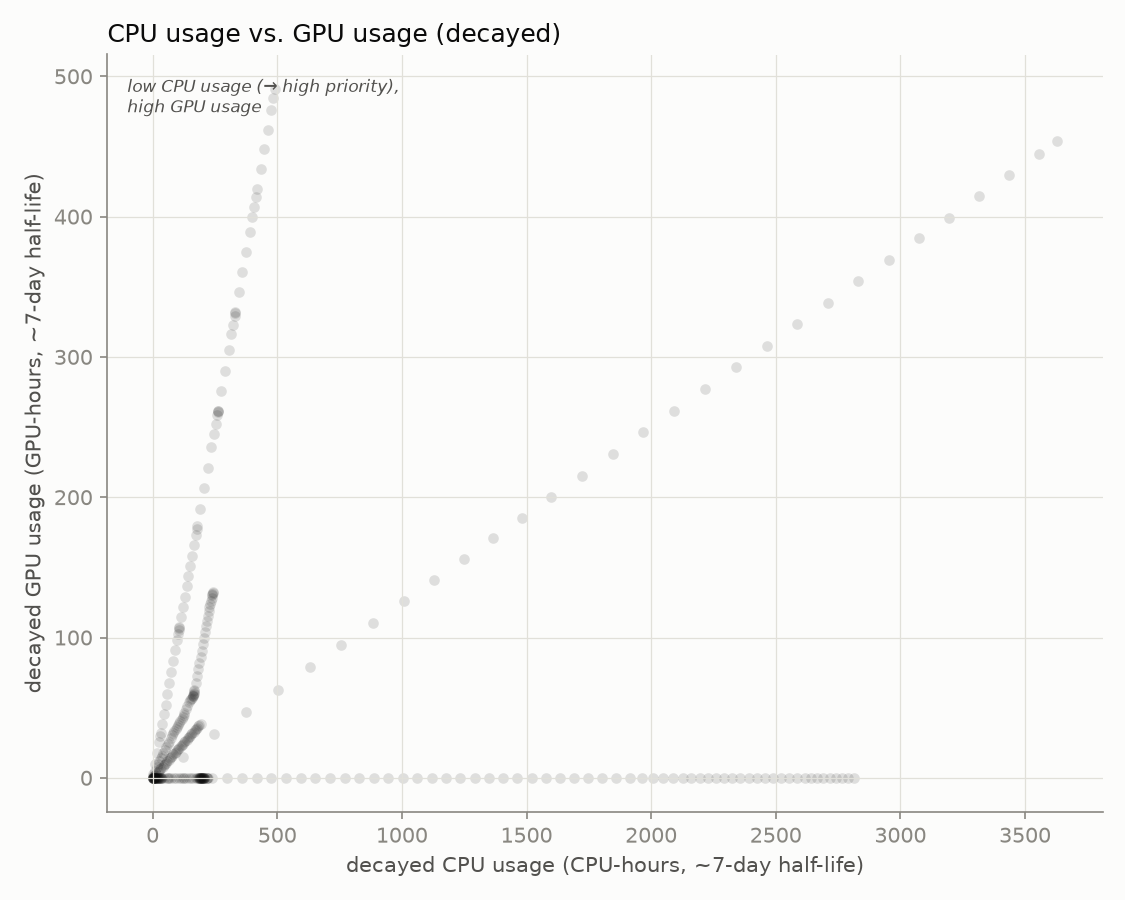
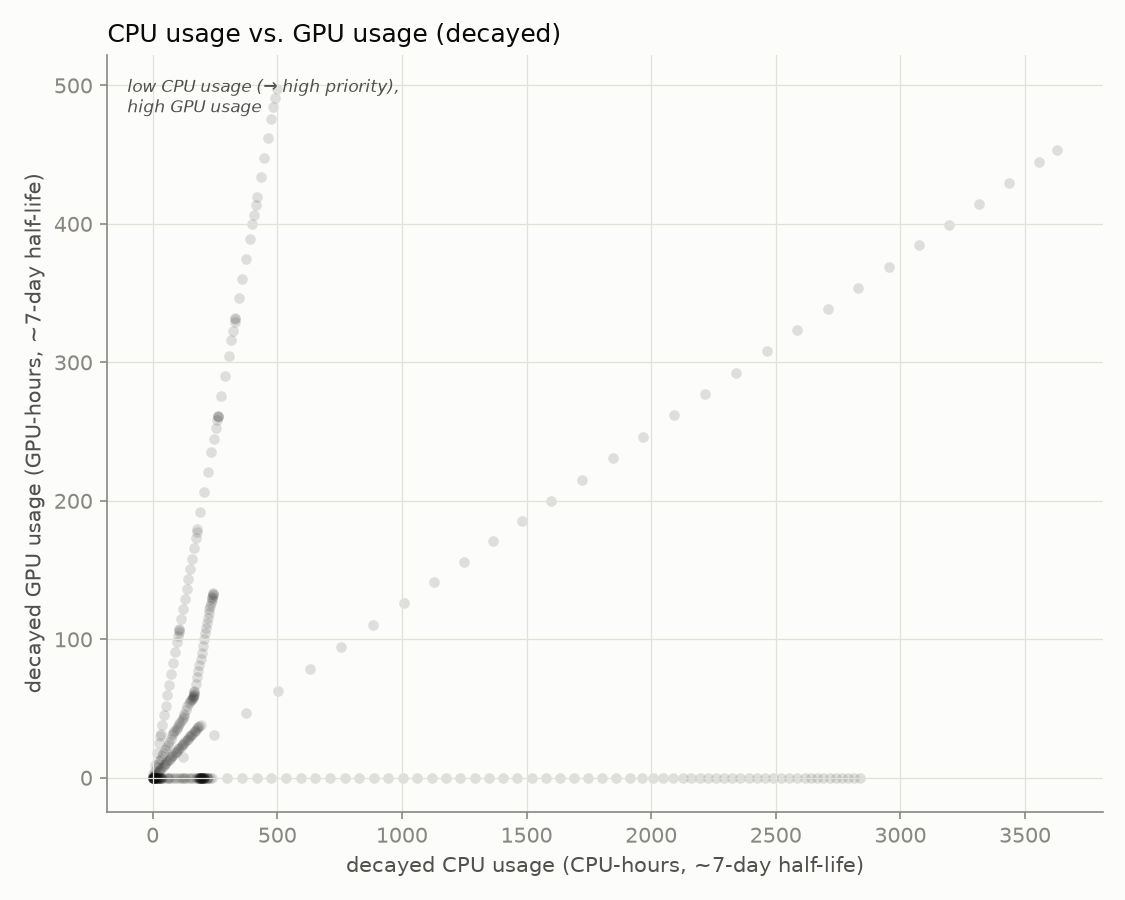
update 2026-08-06T21:00:01-07:00

diff --git a/README.md b/README.md
@@ -2,8 +2,8 @@
 
 Automated GPU/CPU/queue utilization tracker for `hopper.cluster`, updated every 30 minutes by cron. Usernames are anonymized to a stable per-account pseudonym; lab names are real.
 
-Last updated: 2026-08-06T20:30:15-07:00
-Samples: 61 queue snapshots, 61 GPU snapshots
+Last updated: 2026-08-06T21:00:16-07:00
+Samples: 62 queue snapshots, 62 GPU snapshots
 
 ## Resources
 
@@ -16,23 +16,23 @@ Samples: 61 queue snapshots, 61 GPU snapshots
 
 ## Headline
 
-- **63.7%** of the cluster's 60 GPUs allocated, averaged across all samples
-- **43.2%** average `nvidia-smi` utilization *when* a GPU is allocated to a job
+- **63.1%** of the cluster's 60 GPUs allocated, averaged across all samples
+- **43.0%** average `nvidia-smi` utilization *when* a GPU is allocated to a job
 - **83.6%** average cgroup CPU utilization *when* a CPU is allocated to a job
 
 ## Per lab / per user
 
 <table>
 <tr><th>Lab</th><th>User</th><th align='right'>GPU-hours allocated</th><th align='right'>CPU-hours allocated</th><th align='right'>GPU utilization</th></tr>
-<tr style='background-color:#fbebf1'><td>zhuang-lab</td><td>user-0db9ced0</td><td align='right'>518.0</td><td align='right'>518.0</td><td align='right'>50%</td></tr>
+<tr style='background-color:#fbebf1'><td>zhuang-lab</td><td>user-0db9ced0</td><td align='right'>525.5</td><td align='right'>525.5</td><td align='right'>49%</td></tr>
 <tr style='background-color:#d8efef'><td>witter-lab</td><td>user-d58f5a15</td><td align='right'>467.5</td><td align='right'>3740.0</td><td align='right'>9%</td></tr>
-<tr style='background-color:#d8efef'><td>witter-lab</td><td>user-554c620c</td><td align='right'>140.0</td><td align='right'>259.5</td><td align='right'>69%</td></tr>
+<tr style='background-color:#d8efef'><td>witter-lab</td><td>user-554c620c</td><td align='right'>141.0</td><td align='right'>260.5</td><td align='right'>69%</td></tr>
 <tr style='background-color:#fcf0d8'><td>nerenberg-lab</td><td>user-6bb5f332</td><td align='right'>40.0</td><td align='right'>200.0</td><td align='right'>71%</td></tr>
 <tr style='background-color:#dfeaf8'><td>enkavi-lab</td><td>user-c21bdaa4</td><td align='right'>0.0</td><td align='right'>38.0</td><td align='right'>—</td></tr>
-<tr style='background-color:#fce8e0'><td>ibarragarciapadilla-lab</td><td>user-eec7ffae</td><td align='right'>0.0</td><td align='right'>234.5</td><td align='right'>—</td></tr>
-<tr style='background-color:#fce8e0'><td>ibarragarciapadilla-lab</td><td>user-3cfc41a3</td><td align='right'>0.0</td><td align='right'>3015.0</td><td align='right'>—</td></tr>
+<tr style='background-color:#fce8e0'><td>ibarragarciapadilla-lab</td><td>user-eec7ffae</td><td align='right'>0.0</td><td align='right'>252.0</td><td align='right'>—</td></tr>
 <tr style='background-color:#fcf0d8'><td>nerenberg-lab</td><td>user-b12dc074</td><td align='right'>0.0</td><td align='right'>16.0</td><td align='right'>—</td></tr>
-<tr style='background-color:#fce8e0'><td>ibarragarciapadilla-lab</td><td>user-dad71a72</td><td align='right'>0.0</td><td align='right'>5.5</td><td align='right'>—</td></tr>
+<tr style='background-color:#fce8e0'><td>ibarragarciapadilla-lab</td><td>user-dad71a72</td><td align='right'>0.0</td><td align='right'>6.0</td><td align='right'>—</td></tr>
+<tr style='background-color:#fce8e0'><td>ibarragarciapadilla-lab</td><td>user-3cfc41a3</td><td align='right'>0.0</td><td align='right'>3045.0</td><td align='right'>—</td></tr>
 </table>
 
 ## Usage over time
@@ -43,7 +43,7 @@ Samples: 61 queue snapshots, 61 GPU snapshots
 
 Solid = utilized by lab, hatched = allocated but idle, gray = usage not traceable to a lab, dashed line = cluster capacity.
 
-Attribution combines `nvidia-smi`'s process listing with Slurm's GPU-to-job binding record; the latter caught **1769** readings the former missed.
+Attribution combines `nvidia-smi`'s process listing with Slurm's GPU-to-job binding record; the latter caught **1783** readings the former missed.
 
 ## Queue
 
@@ -55,13 +55,13 @@ Attribution combines `nvidia-smi`'s process listing with Slurm's GPU-to-job bind
 
 ![CPU usage vs GPU usage, decayed](assets/cpu_gpu_usage.png)
 
-One point per user per snapshot (n=329), usage decayed on Slurm's ~7-day fairshare half-life.
+One point per user per snapshot (n=334), usage decayed on Slurm's ~7-day fairshare half-life.
 
 **GPU usage doesn't count toward priority on this cluster** (`TRESBillingWeights`/`PriorityWeightTRES` unset) - watch the **upper-left**: low CPU usage (high priority) with high GPU usage.
 
 ## Recommendations
 
-1. **Weight GPU usage in fairshare.** `TRESBillingWeights` and `PriorityWeightTRES` are both unset right now, so Slurm's fairshare score only sees CPU-seconds - a job holding 4 idle L40S GPUs costs nothing in priority as long as it isn't also holding CPUs. That's the exact failure mode the scatter above is built to catch (upper-left: low CPU usage, high GPU usage). Fix: `scontrol update partition=main TRESBillingWeights=CPU=1.0,GRES/gpu=<weight>` (or set `PriorityWeightTRES` cluster-wide), then `scontrol reconfigure` - a full `slurmctld` restart also works but drops in-flight priority state. A reasonable starting point for `<weight>` is the CPUs-per-GPU ratio on a GPU node (128 CPUs / 4 GPUs = 32), so one GPU costs as much fairshare as the CPU share it displaces; tune from there against next week's headline numbers (63.7% allocated, 43.2% utilized when allocated, as of this snapshot). The weight value itself is a policy call - loop in whoever owns cluster allocation policy before changing it.
+1. **Weight GPU usage in fairshare.** `TRESBillingWeights` and `PriorityWeightTRES` are both unset right now, so Slurm's fairshare score only sees CPU-seconds - a job holding 4 idle L40S GPUs costs nothing in priority as long as it isn't also holding CPUs. That's the exact failure mode the scatter above is built to catch (upper-left: low CPU usage, high GPU usage). Fix: `scontrol update partition=main TRESBillingWeights=CPU=1.0,GRES/gpu=<weight>` (or set `PriorityWeightTRES` cluster-wide), then `scontrol reconfigure` - a full `slurmctld` restart also works but drops in-flight priority state. A reasonable starting point for `<weight>` is the CPUs-per-GPU ratio on a GPU node (128 CPUs / 4 GPUs = 32), so one GPU costs as much fairshare as the CPU share it displaces; tune from there against next week's headline numbers (63.1% allocated, 43.0% utilized when allocated, as of this snapshot). The weight value itself is a policy call - loop in whoever owns cluster allocation policy before changing it.
 
 2. **Escalate on sustained low utilization** (see table and scatter above). Right now the clearest candidate is `user-d58f5a15` in `witter-lab`: 467.5 GPU-hours allocated at 9% average utilization, i.e. roughly 424 GPU-hours that sat idle instead of going to someone in the queue. Turning that into an automated escalation needs two decisions made up front: a utilization threshold (something like under 20% mean utilization over at least 50 allocated GPU-hours is a defensible starting bar - loose enough to skip short debugging runs, tight enough to catch parked allocations) and a grace period (how many consecutive low-utilization snapshots before it counts as "sustained" rather than a momentary lull between batches). Once those are set, the mechanism can be either soft (a bot that reads `data/gpu_samples.jsonl` and reminds the user/lab by email or Slack) or hard (a Slurm-side QOS penalty, e.g. `sacctmgr modify qos <qos> set Priority-=<n>`, applied after N consecutive offending snapshots). Neither exists yet - today the table and scatter above are a read-only signal, not an enforced policy.
 
